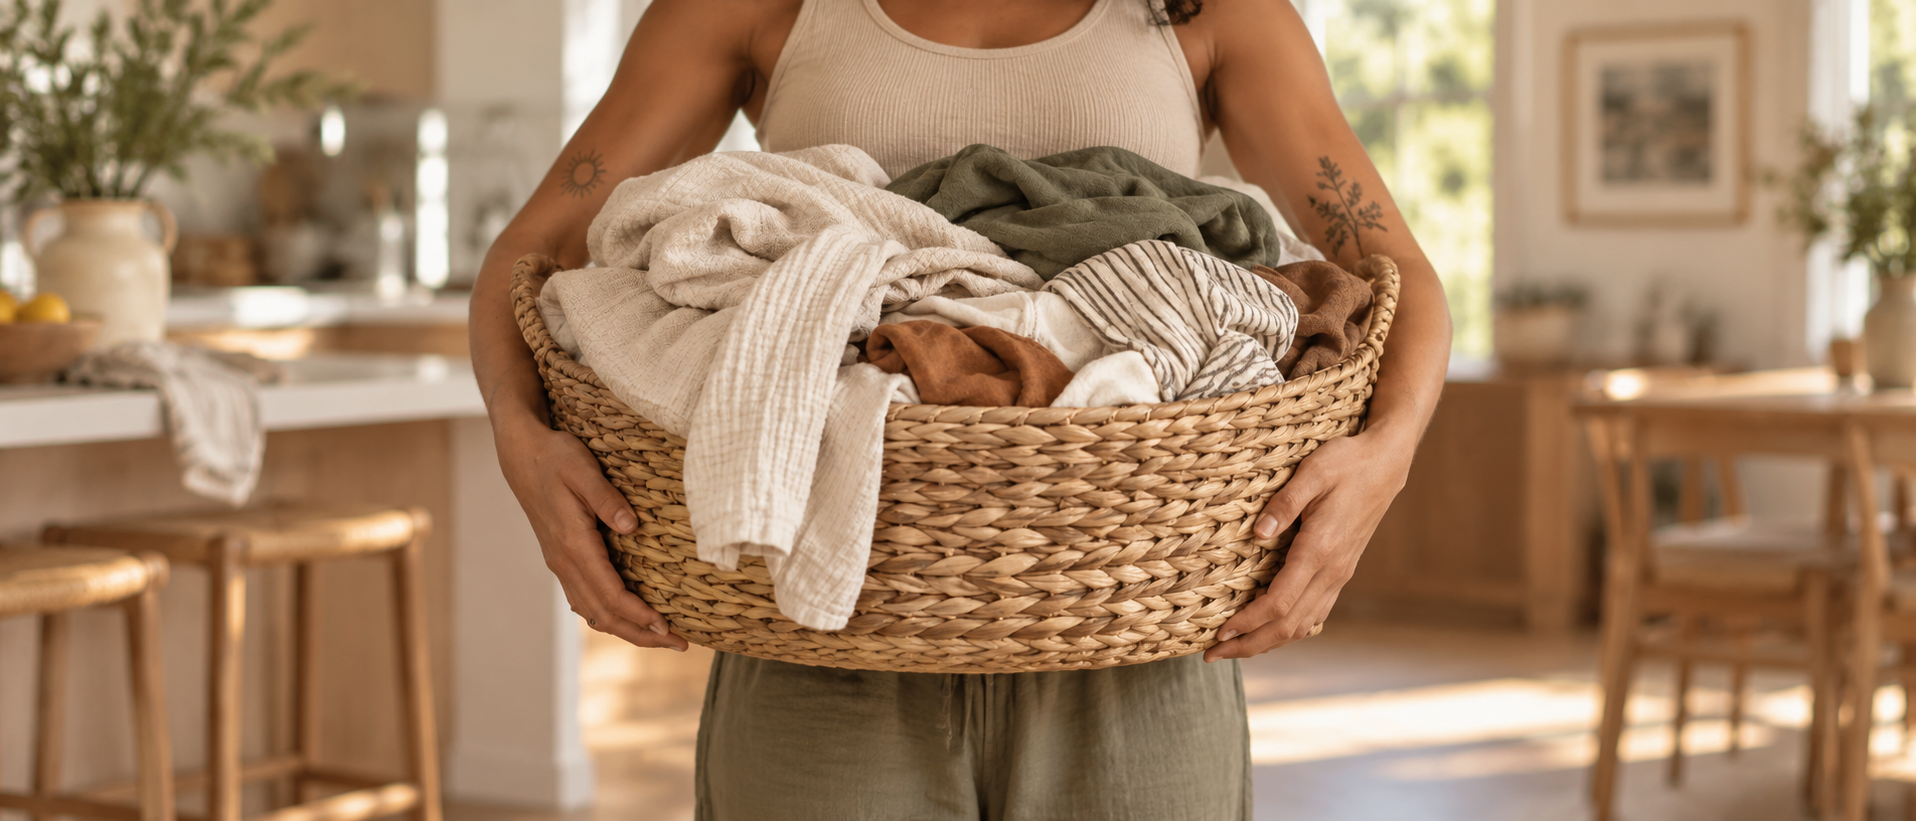
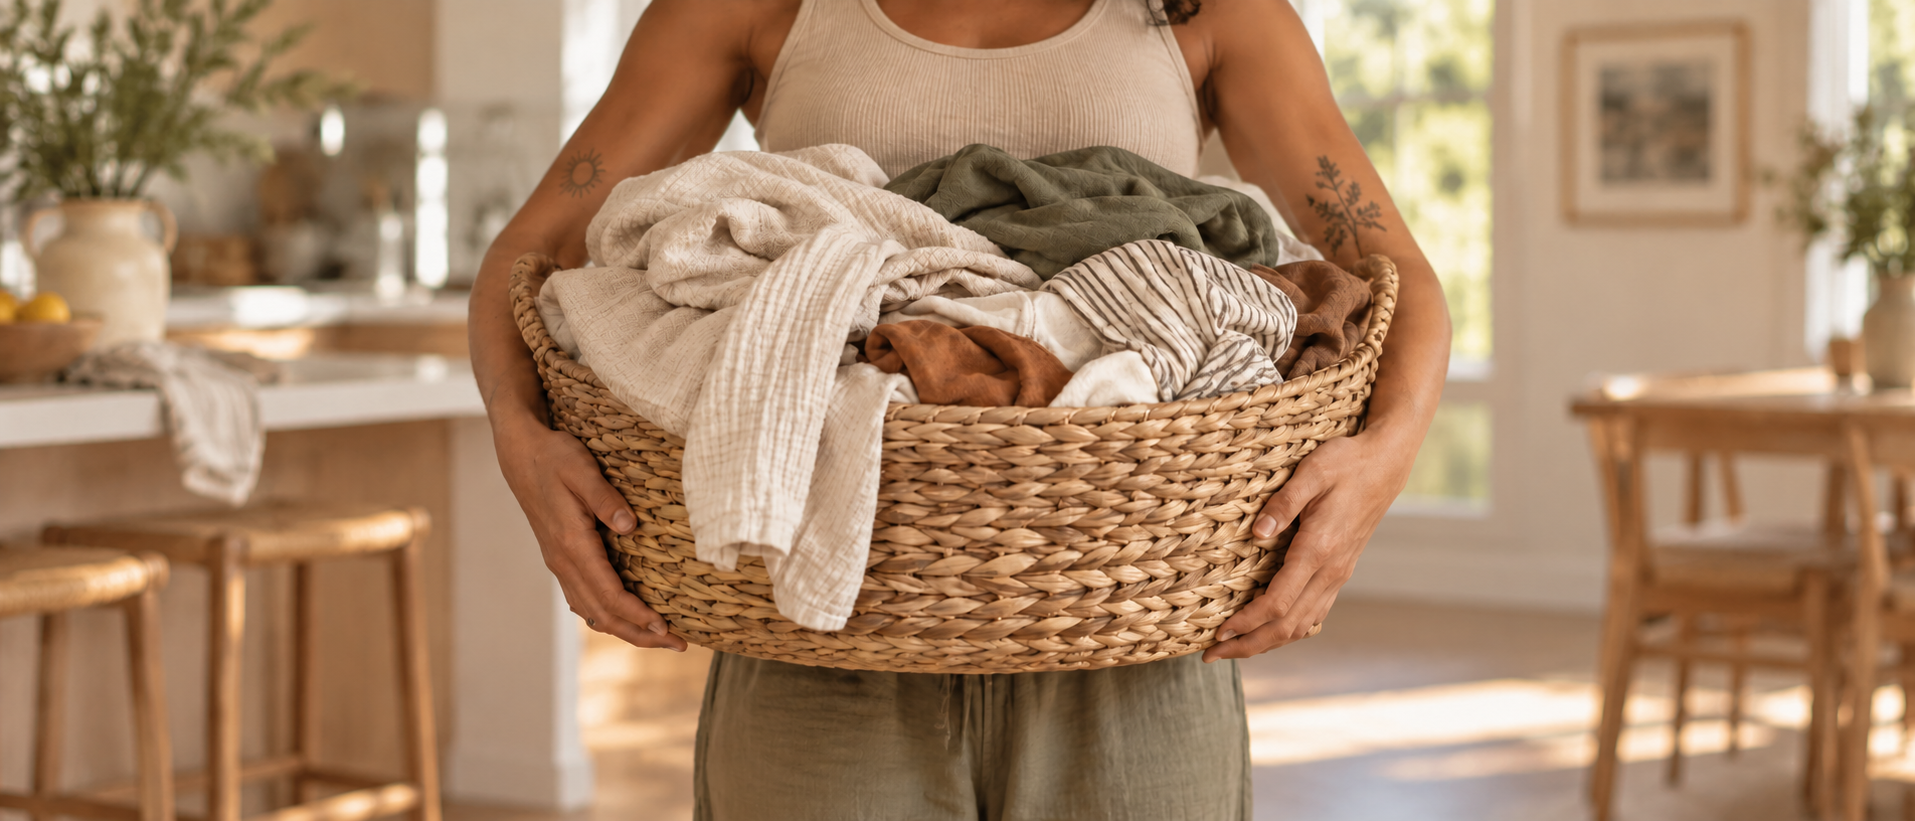
fix: center the founding-team header and refresh helper photos

diff --git a/app/globals.css b/app/globals.css
@@ -1730,16 +1730,21 @@ fieldset.radio-group legend,
 }
 
 .helpers-lead {
-  display: grid;
-  grid-template-columns: minmax(0, 1fr) max-content;
-  column-gap: 28px;
-  align-items: start;
-  margin-bottom: 12px;
+  display: flex;
+  align-items: center;
+  justify-content: space-between;
+  gap: 28px;
+  margin-bottom: 24px;
+}
+
+.helpers-apply-stack {
+  display: flex;
+  flex-direction: column;
+  align-items: center;
+  flex: 0 0 auto;
 }
 
 .helpers-apply-cta {
-  grid-column: 2;
-  grid-row: 1;
   width: 100%;
   min-height: 44px;
   justify-content: center;
@@ -1748,49 +1753,50 @@ fieldset.radio-group legend,
 }
 
 .helpers .helpers-lead h1 {
-  grid-column: 1;
-  grid-row: 2;
   margin: 0;
 }
 
 .helpers .helpers-eyebrow {
-  grid-column: 2;
-  grid-row: 2;
-  justify-self: center;
-  width: max-content;
-  max-width: 100%;
-  margin: 8px 0 0;
-  padding: 0 0 2px;
+  margin: 14px 0 0;
   text-align: center;
   font-size: 0.75rem;
   font-weight: 600;
   letter-spacing: 0.08em;
   text-transform: uppercase;
   color: var(--text-muted);
-  border-bottom: 3px solid var(--accent);
+}
+
+.helpers .sand-mark {
+  position: relative;
+  z-index: 1;
+  display: inline-block;
+  max-width: 100%;
+  color: inherit;
+  box-decoration-break: clone;
+}
+
+.helpers .sand-mark::before {
+  content: "";
+  position: absolute;
+  z-index: -1;
+  inset: -0.18em -0.55em -0.12em -0.42em;
+  background: var(--border);
+  border-radius: 62% 38% 46% 54% / 42% 58% 38% 62%;
+  transform: rotate(-8deg);
+}
+
+.helpers .sand-mark.shape-2::before {
+  transform: rotate(-3deg);
+  border-radius: 70% 30% 48% 52% / 36% 64% 42% 58%;
+  inset: -0.12em -0.7em -0.2em -0.3em;
 }
 
 @media (max-width: 560px) {
   .helpers-lead {
-    grid-template-rows: 1fr auto auto 1fr;
-    align-items: center;
-    column-gap: 16px;
-    row-gap: 0;
-  }
-
-  .helpers-apply-cta {
-    grid-row: 2;
-    align-self: end;
-  }
-
-  .helpers .helpers-lead h1 {
-    grid-row: 1 / -1;
-    align-self: center;
+    gap: 16px;
   }
 
   .helpers .helpers-eyebrow {
-    grid-row: 3;
-    align-self: start;
     max-width: 9.25rem;
   }
 }
@@ -1843,7 +1849,7 @@ fieldset.radio-group legend,
 .helpers .helpers-compensation-group {
   margin: 32px 0;
   padding: 2px 0 2px 16px;
-  border-left: 4px solid var(--brand);
+  border-left: 4px solid var(--accent);
 }
 
 .helpers .helpers-compensation {
@@ -1853,7 +1859,7 @@ fieldset.radio-group legend,
   font-size: 1.375rem;
   font-weight: 600;
   letter-spacing: -0.01em;
-  color: var(--text);
+  color: var(--accent);
   line-height: 1.3;
 }
 

diff --git a/app/helpers/page.tsx b/app/helpers/page.tsx
@@ -1,8 +1,8 @@
 import type { Metadata } from "next";
 import Image from "next/image";
 import { HelpersApplicationForm } from "@/components/helpers-application-form";
-import heroLaundry from "@/public/images/helpers/helpers-hero-laundry.webp";
-import mealPrep from "@/public/images/helpers/helpers-midpage-meal-prep.webp";
+import heroLaundry from "@/public/images/helpers/helpers-hero-laundry.png";
+import mealPrep from "@/public/images/helpers/helpers-midpage-meal-prep.png";
 import {
   COMPENSATION_LINE,
   COMPENSATION_SUPPORT_PRIMARY,
@@ -26,11 +26,15 @@ export default function HelpersPage() {
     <main id="main-content" className="page helpers">
       <div className="helpers-content">
         <div className="helpers-lead">
-          <a className="btn btn-primary helpers-apply-cta" href="#helpers-apply">
-            Apply now
-          </a>
           <h1>{HELPERS_HEADING}</h1>
-          <p className="helpers-eyebrow">{HELPERS_EYEBROW}</p>
+          <div className="helpers-apply-stack">
+            <a className="btn btn-primary helpers-apply-cta" href="#helpers-apply">
+              Apply now
+            </a>
+            <p className="helpers-eyebrow">
+              <span className="sand-mark shape-2">{HELPERS_EYEBROW}</span>
+            </p>
+          </div>
         </div>
         <p className="helpers-intro">{HELPERS_INTRO}</p>
 

diff --git a/lib/helpers/copy.ts b/lib/helpers/copy.ts
@@ -9,10 +9,10 @@ export const HELPERS_HEADING = "Help shape Parentive from the beginning.";
 export const HELPERS_INTRO =
   "We're looking for compassionate, dependable, detail-oriented people who enjoy working with families and want to make everyday life a little easier. As a Founding Helper, you'll be an integral part of the team shaping how Parentive works, from the quality of our services to the experience we create for the households we support, one task at a time.";
 
-export const COMPENSATION_LINE = "Flexible hours, $20–$23 per hour.";
+export const COMPENSATION_LINE = "Flexible hours";
 
 export const COMPENSATION_SUPPORT_PRIMARY =
-  "Pay is for the pilot phase and will be reviewed after the pilot. These are employee positions. Hours aren't guaranteed during the pilot, and we're hoping to hear from people with 6 or more hours of weekly availability.";
+  "Compensation is up to $23/hr for the pilot phase and will be reviewed on an ongoing basis. These are employee positions. Hours aren't guaranteed during the pilot, and we're hoping to hear from people with 6 or more hours of weekly availability.";
 
 export const DOCUMENT_ATTACH_COPY =
   "Please upload one document: your résumé, or anything that outlines your experience relevant to the services Parentive provides.";

diff --git a/lib/helpers/copy.test.ts b/lib/helpers/copy.test.ts
@@ -1,5 +1,6 @@
 import {
   COMPENSATION_LINE,
+  COMPENSATION_SUPPORT_PRIMARY,
   DOCUMENT_ATTACH_COPY,
   EXPERIENCE_SUPPORTING,
   FIELD_LABELS,
@@ -24,8 +25,10 @@ describe("helpers copy", () => {
   });
 
   it("keeps the exact compensation and document sentences", () => {
-    expect(COMPENSATION_LINE).toBe("Flexible hours, $20–$23 per hour.");
-    expect(COMPENSATION_LINE).toContain("$20–$23");
+    expect(COMPENSATION_LINE).toBe("Flexible hours");
+    expect(COMPENSATION_SUPPORT_PRIMARY).toBe(
+      "Compensation is up to $23/hr for the pilot phase and will be reviewed on an ongoing basis. These are employee positions. Hours aren't guaranteed during the pilot, and we're hoping to hear from people with 6 or more hours of weekly availability.",
+    );
     expect(DOCUMENT_ATTACH_COPY).toBe(
       "Please upload one document: your résumé, or anything that outlines your experience relevant to the services Parentive provides.",
     );
